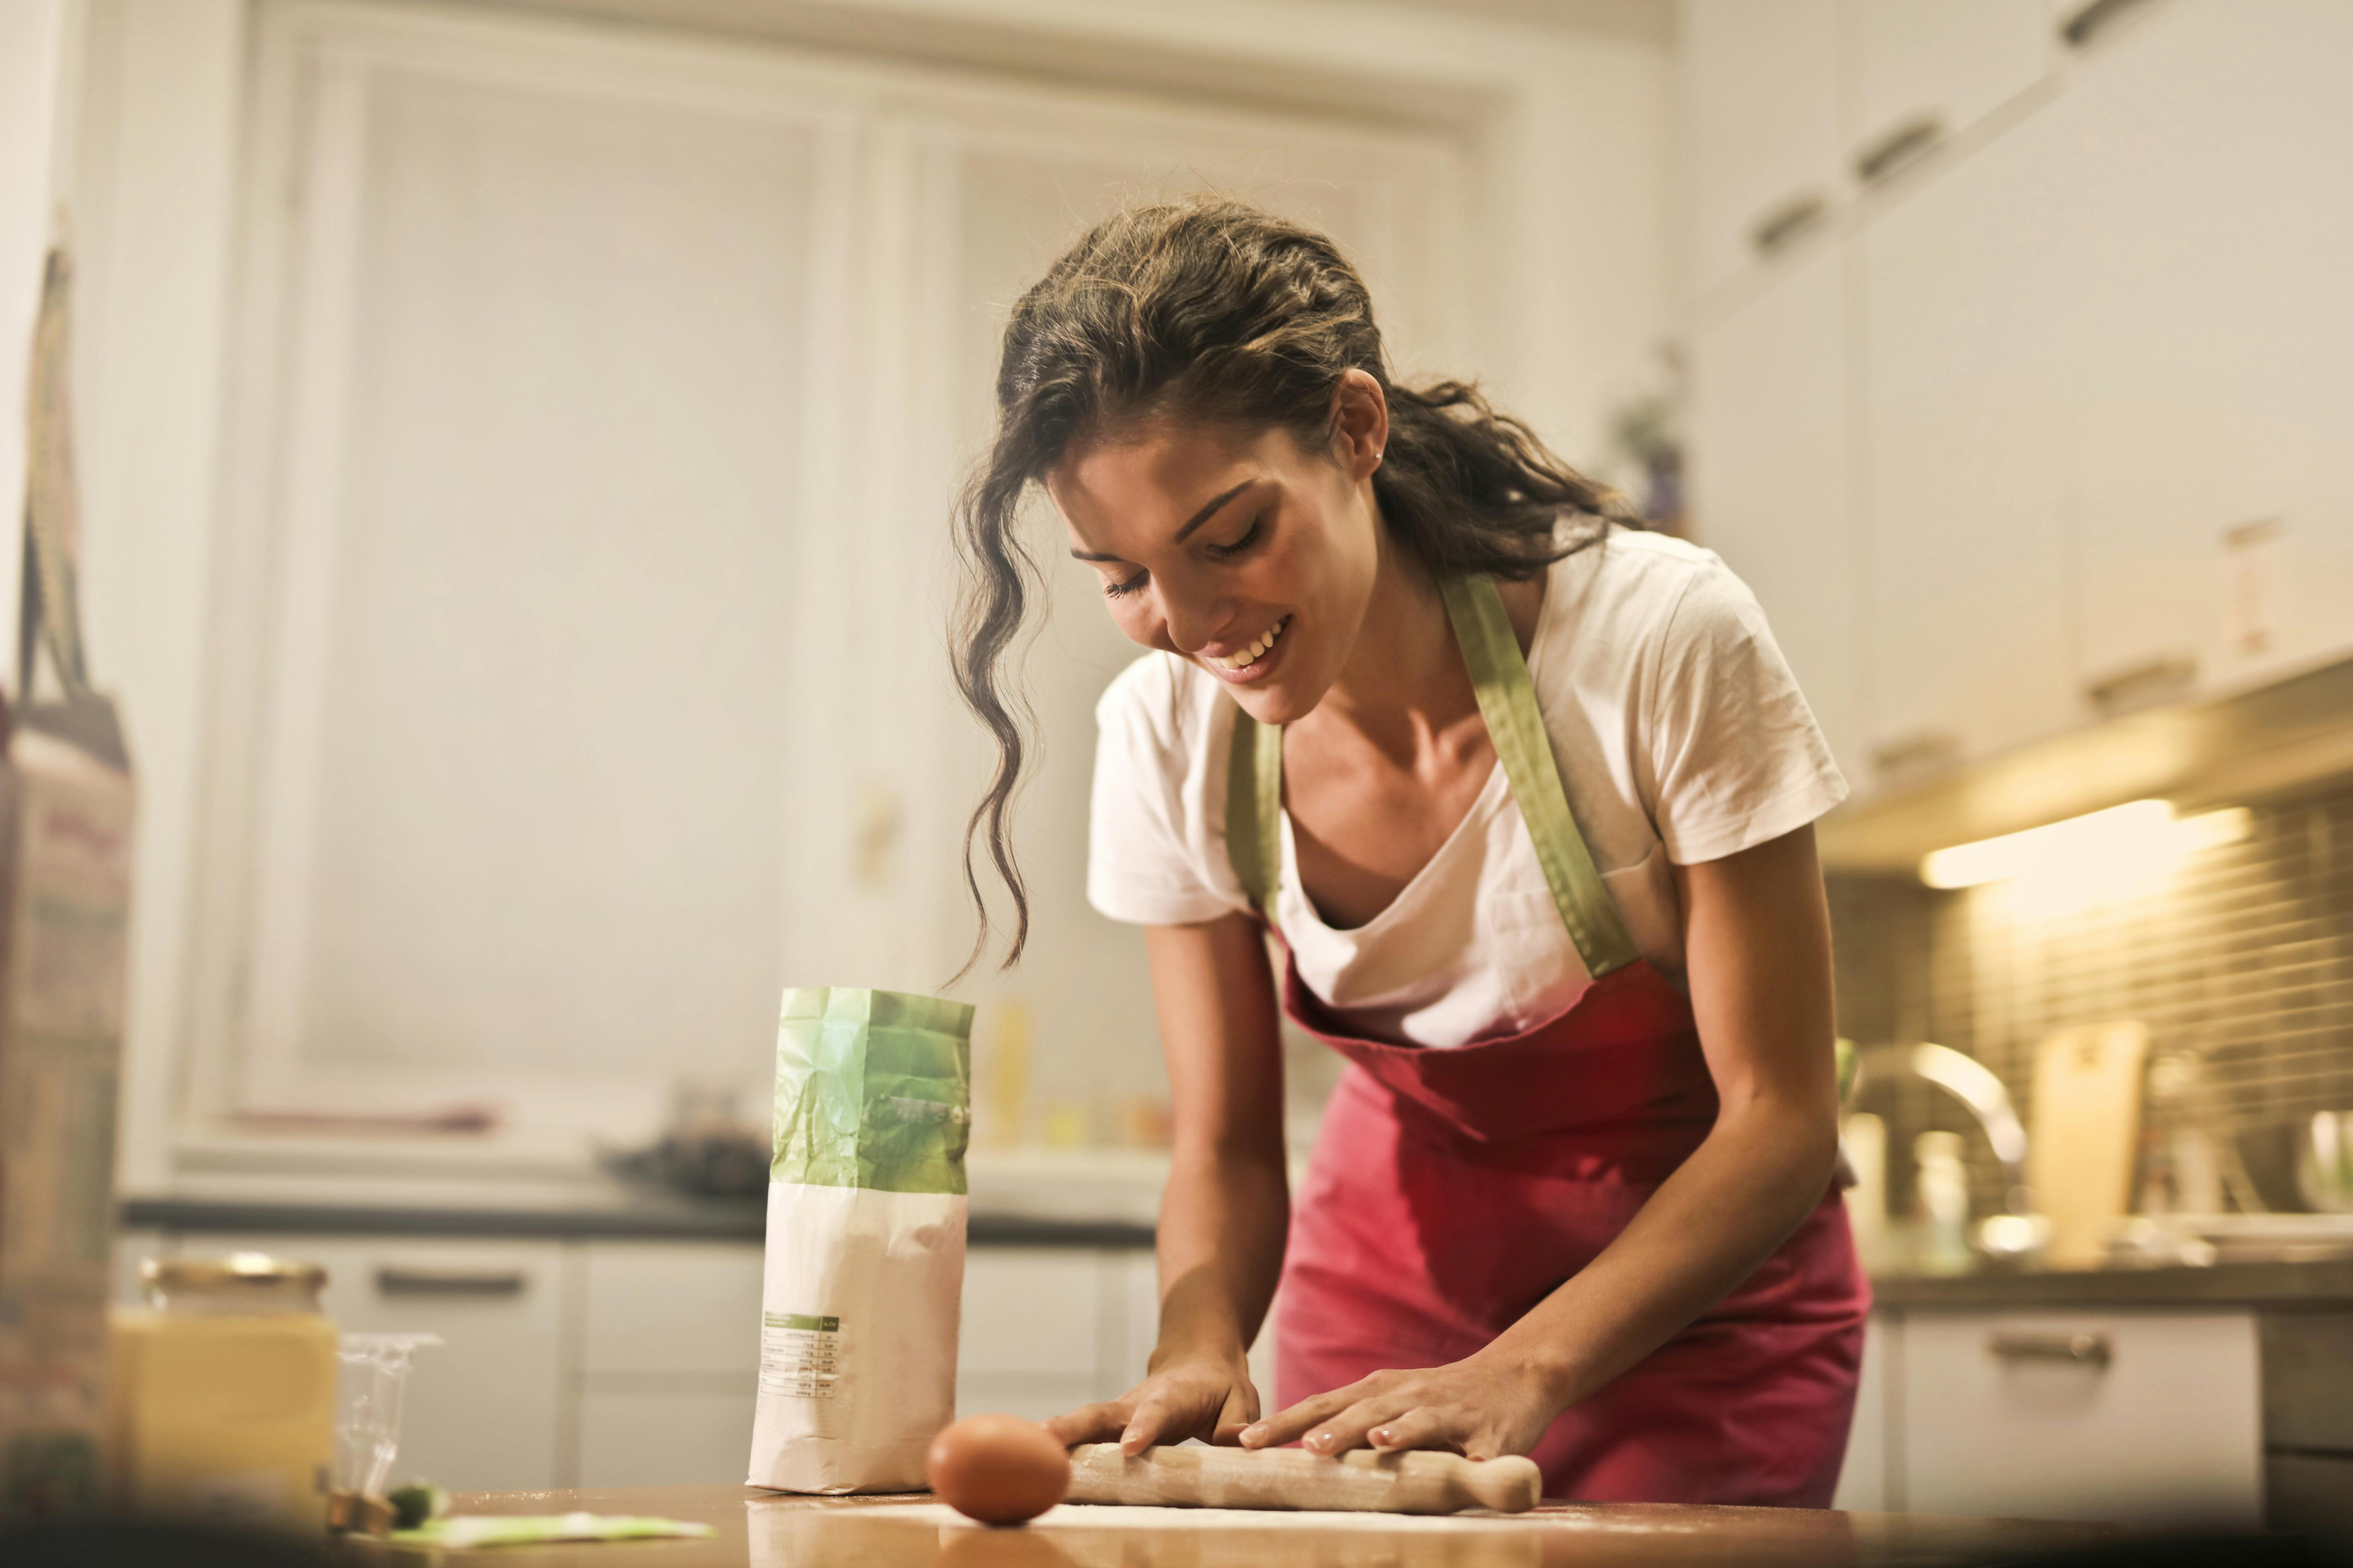
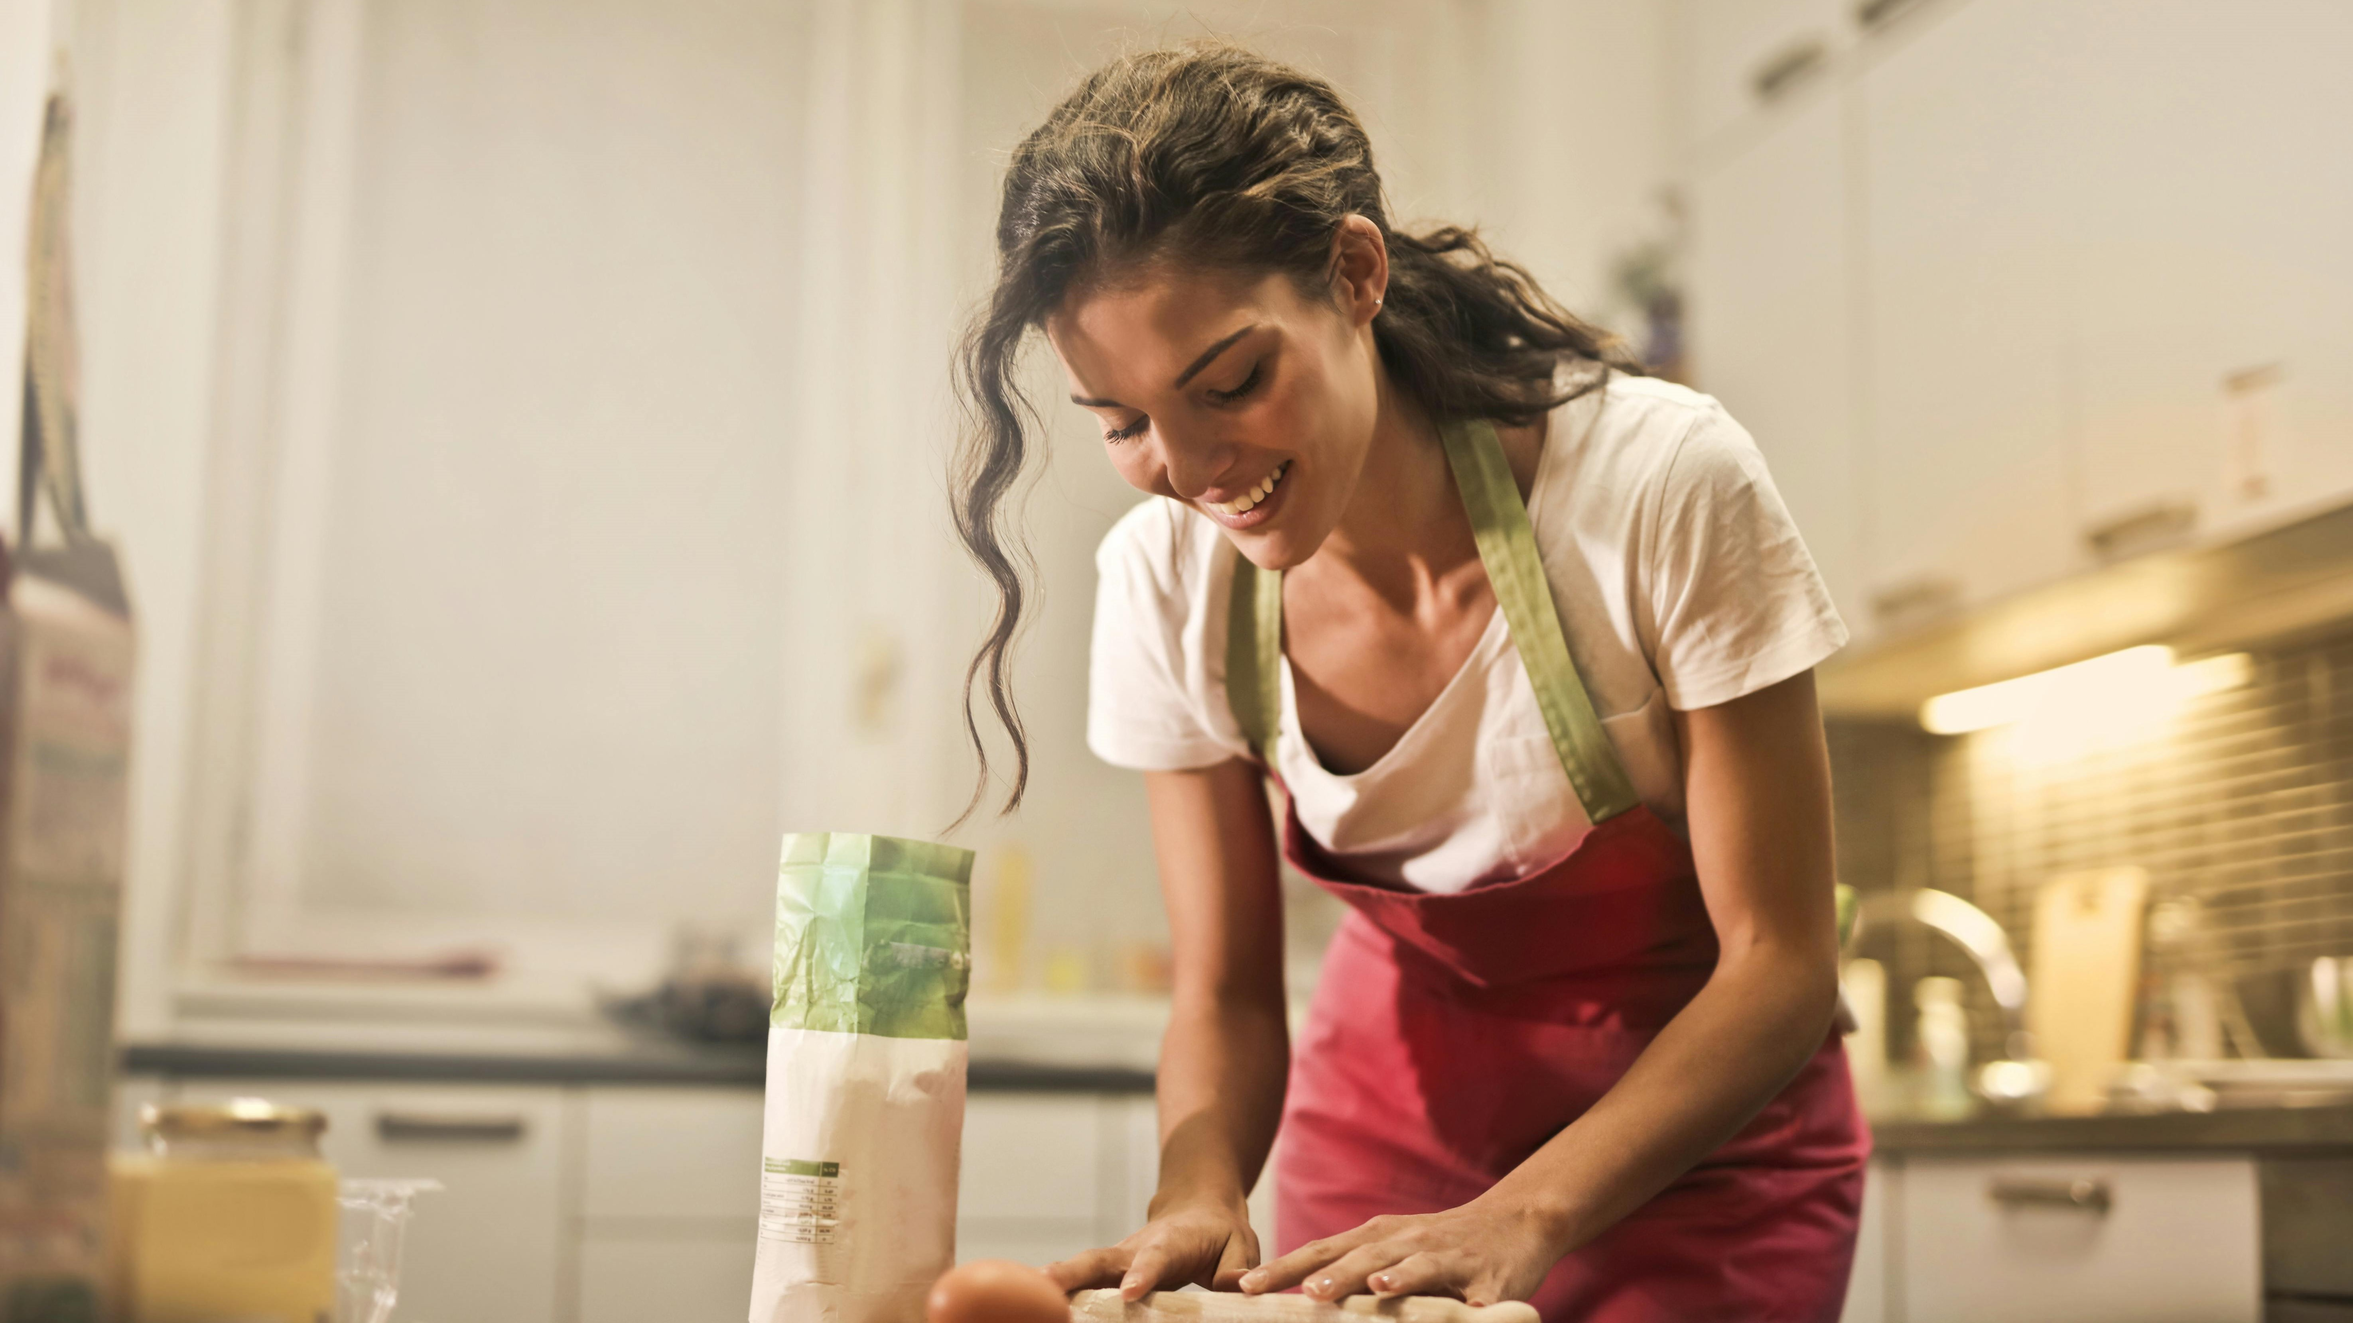
changes

diff --git a/AboutUs.html b/AboutUs.html
@@ -16,19 +16,21 @@
     <body>
          <!-- Header-Bereich mit Bannerbild -->
         <div class="about-section">
-            <header>
-                <img src="frauKocht.jpg" width="80%">
-            </header>
-            <section>
-            <h1>ÜBER UNS</h1>
-            <p> 
-                Genuss kennt keine Grenzen!
-            </p>
-            <p> 
-                Willkommen bei [Foodblog]! Wir sind leidenschaftliche Köche und Food-Enthusiasten, die sich darauf freuen, unsere kulinarischen Entdeckungen mit dir zu teilen. Unsere Mission ist es, köstliche Rezepte zu kreieren, die nicht nur den Gaumen erfreuen, sondern auch inspirieren.
-            </p>
+            <div>
+                <img src="frauKocht.jpg" 
+                alt="eine Frau die in der Küche steht und einen Teig rollt" style="width:100%">
             </div>
-        </section>
+            <div>
+                <h1>ÜBER UNS</h1>
+                <p> 
+                    Genuss kennt keine Grenzen!
+                </p>
+                <p> 
+                    Willkommen bei [Foodblog]! Wir sind leidenschaftliche Köche und Food-Enthusiasten, die sich darauf freuen, unsere kulinarischen Entdeckungen mit dir zu teilen. Unsere Mission ist es, köstliche Rezepte zu kreieren, die nicht nur den Gaumen erfreuen, sondern auch inspirieren.
+                </p>
+            </div>
+        </div>
+            
         
         <!-- Hauptinhalt -->
         <section>

diff --git a/AboutUs.css b/AboutUs.css
@@ -10,7 +10,7 @@ body {
     background-color: #bdd4bd;
     color: #DC143C;
     display: flex;
-    flex-direction: row;
+    background-color: #bdd4bd;
     flex-direction: column;
     align-items:center;
 }
